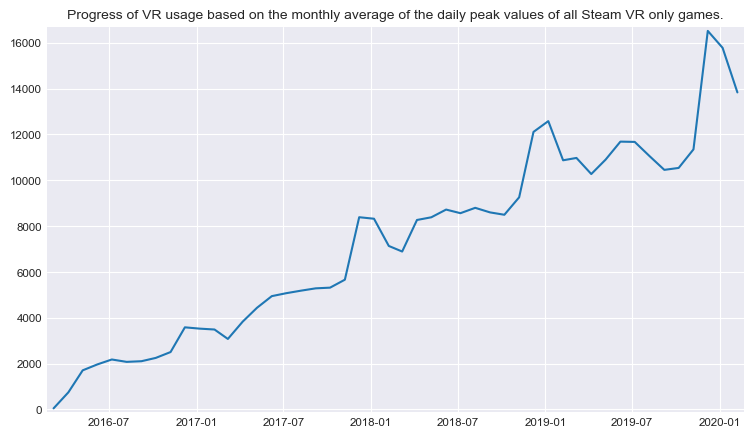
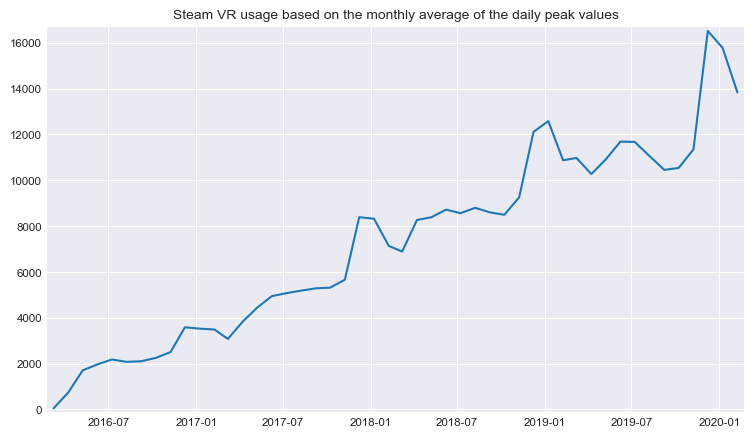
update

diff --git a/src/create_charts.py b/src/create_charts.py
@@ -14,7 +14,7 @@ c = conn.cursor()
 def top10_sql():
     """Returns the 10 most played VR games since 2020 as a list"""
     c.execute('''
-    SELECT title, max(players) as Maxplayers, round(avg(players)) as Average from vr_players
+    SELECT vr_players.appid, title, max(players) as Maxplayers, round(avg(players)) as Average from vr_players
     INNER JOIN vr_games ON vr_games.appid = vr_players.appid
     WHERE date >= '2020-01'
     Group by vr_players.appid
@@ -39,6 +39,16 @@ def peak_players_online_sql():
     return c.fetchall()
 
 
+def peak_players_online_sql2(appid):
+    c.execute(f'''
+    SELECT strftime('%Y-%m', date) as new_date, 
+    max(players) as average from vr_players
+    WHERE appid ="{appid}"  and date > '2018-05' and date != '2019-07-24' and date < date('now','start of month')
+    Group by new_date
+    ''')
+    return c.fetchall()
+
+
 def top10_chart(sql_data):
     """Creates a chart of the 10 most used VR games since 2020 with the seaborn library"""
     # changes the title length
@@ -53,7 +63,7 @@ def top10_chart(sql_data):
     ax.xaxis.set_major_locator(MultipleLocator(250))
 
     # Creates a Panda data frame with the data from the sqlite database
-    top10 = pd.DataFrame(sql_data, columns=['game', 'max_players', 'avg_players'])
+    top10 = pd.DataFrame(sql_data, columns=['appid', 'game', 'max_players', 'avg_players'])
 
     # Plot the maximum number of players
     sns.set_color_codes("pastel")
@@ -72,11 +82,8 @@ def top10_chart(sql_data):
     ax.legend(ncol=2, loc="lower right", frameon=False)
     sns.despine(left=True, bottom=True)
 
-    # save the plot and cuts off the edges
-    plt.savefig('../images/vrgames_top10_2020.png', bbox_inches='tight')
 
-
-def peak_players_chart(sql_data):
+def peak_players_chart(sql_data, chart_title, color="", legend=""):
     """Creates a chart which shows the use of VR since 2016 with the matplotlib library"""
     dates = []
     players = []
@@ -85,10 +92,12 @@ def peak_players_chart(sql_data):
         players.append(item[1])
     style.use('seaborn-dark')
     plt.plot_date(dates, players, '-')
-    plt.title("Progress of VR usage based on the monthly average of the daily peak values "
-              "of all Steam VR only games.")
+    plt.title(chart_title)
+    if legend:
+        plt.plot(dates, players, color, label=legend)
+        # plt.plot(x, y2, "-r", label="cosine")
+        plt.legend(loc="upper left")
     plt.grid(True)
-    plt.savefig('../images/vrgames_avg_peak_over_time.png', bbox_inches='tight')
 
 
 def change_game_title(sql_data):
@@ -96,13 +105,13 @@ def change_game_title(sql_data):
     shortened_title_names = ["Skyrim VR", "The Walking Dead", "Hot Dogs"]
     games_list = []
     for game in sql_data:
-        game_title, max_players, avg_players = game
+        appid, game_title, max_players, avg_players = game
         for short_title in shortened_title_names:
             if short_title in game_title:
-                games_list.append((short_title, max_players, avg_players))
+                games_list.append((appid, short_title, max_players, avg_players))
                 break
         else:
-            games_list.append((game_title, max_players, avg_players))
+            games_list.append((appid, game_title, max_players, avg_players))
     return games_list
 
 
@@ -121,9 +130,18 @@ def main():
               'ytick.labelsize': 'small'}
     pylab.rcParams.update(params)
 
-    # Creates the charts with the data from the sql queries
-    peak_players_chart(peak_players_online_sql())
+    # Creates the charts with the data from the sql queries and saves them
+    chart_title = "Steam VR usage based on the monthly average of the daily peak values"
+    peak_players_chart(peak_players_online_sql(), chart_title)
+    plt.savefig('../images/vrgames_avg_peak_over_time.png', bbox_inches='tight')
+    plt.subplots()
+    chart_title = "The maximum number of simultaneous players on Steam"
+    peak_players_chart(peak_players_online_sql2(appid=620980), chart_title, "navy", "Beat Saber")
+    peak_players_chart(peak_players_online_sql2(appid=555160), chart_title, "orange", "Pavlov")
+    peak_players_chart(peak_players_online_sql2(appid=617830), chart_title, "red", "Super Hot VR")
+    plt.savefig('../images/BeatSaber_Pavlov_SuperHot_peak.png', bbox_inches='tight')
     top10_chart(top10_sql())
+    plt.savefig('../images/vrgames_top10_2020.png', bbox_inches='tight')
     conn.close()
 
     # Displays the charts

diff --git a/README.md b/README.md
@@ -6,4 +6,7 @@ Determines all Steam VR only games and the number of players. The required infor
 <p align="center">
   <img width="754" height="437" src="https://github.com/Bamux/Steam_VR_Statistics/blob/master/images/vrgames_avg_peak_over_time.png">
 </p>
+<p align="center">
+  <img width="754" height="437" src="https://github.com/Bamux/Steam_VR_Statistics/blob/master/images/BeatSaber_Pavlov_SuperHot_peak.png">
+</p>
 
